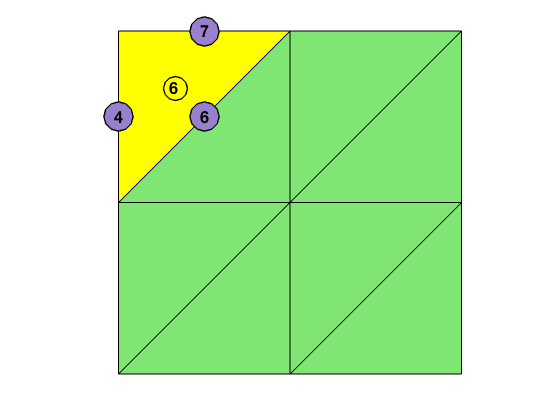
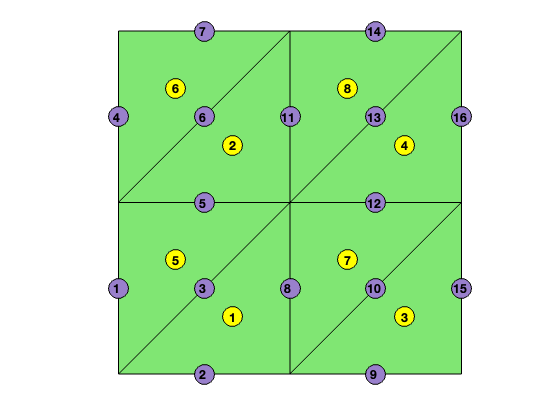
update auxstructure page

diff --git a/docs/assets/css/main.scss b/docs/assets/css/main.scss
@@ -52,8 +52,8 @@ $base01: #e0e0e0 !default;
 $base02: #bdbdbd !default;
 $base03: #9b9b9b !default;
 $base04: #009e12 !default;
-$base05: #272727 !default;
-$base06: #151515 !default;
+$base05: #474545 !default;
+$base06: #353434 !default;
 $base07: #202020 !default;
 $base08: #c00066 !default;
 $base09: #8f5202 !default;
@@ -99,8 +99,8 @@ code {
   td > code {
     padding-top: 0.02rem;
     padding-bottom: 0.02rem;
-    font-size: 0.9em;
-    background-color: #efefef;
+    font-size: 0.88em;
+    background-color: #f1f1f1;
   }
 
 // makes middle column narrow

diff --git a/tool/findelem.m b/tool/findelem.m
@@ -59,7 +59,7 @@ if length(range) < size(elem,1)
     end
 end
 nDigit =ceil(log10(range+1));
-oSize = 150*nDigit;
+oSize = 400*nDigit;
 f = gcf;
 set(f, 'Units', 'pixel');
 fHeight = f.Position(4);
@@ -68,7 +68,7 @@ if (nargin <=3) || ~(strcmp(varargin{1},'noindex'))
         s = scatter(center(:,1),center(:,2),oSize,'o','LineWidth',1,'MarkerEdgeColor','k',...
             'MarkerFaceColor','y');
         if max(f.Position(3:4)) <= 1
-            fSz = 10*f.Position(4); % font size is proportional to height
+            fSz = 20*f.Position(4); % font size is proportional to height
         else
             fSz = log(f.Position(3)*f.Position(4));
         end
@@ -88,12 +88,13 @@ if (nargin <=3) || ~(strcmp(varargin{1},'noindex'))
     end
 end
 hold off
-%%
+%% relative position of numbers
+% add by Shuhao Cao
     function resizeCallback(f, ~)
         if max(f.Position(3:4)) <= 1 % relative
-            newFSz = 40*f.Position(4); % font size is proportional to height
-            newOSize = 5*oSize*(f.Position(4));
-            newTshift = 2*tShift*f.Position(4);
+            newFSz = 80*f.Position(4); % font size is proportional to height
+            newOSize = 10*oSize*(f.Position(4));
+            newTshift = 4*tShift*f.Position(4);
         else % pixel
             newFSz = log(f.Position(3)*f.Position(4));
             newOSize = oSize*(f.Position(4)/fHeight);

diff --git a/docs/docscript4figures.m b/docs/docscript4figures.m
@@ -1,0 +1,21 @@
+[node,elem] = squaremesh([0 1 0 1],0.5);
+totalEdge = sort([elem(:,[2,3]); elem(:,[3,1]); elem(:,[1,2])],2);
+[edge, i2, j] = unique(totalEdge,'rows','legacy');
+NT = size(elem,1);
+elem2edge = reshape(j,NT,3);
+
+%%
+showmesh(node,elem);
+findedge(node,edge);
+findelem(node,elem);
+display(elem2edge);
+%%
+i1(j(3*NT:-1:1)) = 3*NT:-1:1; i1=i1';
+k1 = ceil(i1/NT); t1 = i1 - NT*(k1-1);
+k2 = ceil(i2/NT); t2 = i2 - NT*(k2-1);
+edge2elem = [t1,t2,k1,k2];
+%%
+showmesh(node,elem);
+findelem(node,elem,edge2elem(6,1:2));
+findedge(node,edge,6);
+display(edge2elem);

diff --git a/tool/findnode.m b/tool/findnode.m
@@ -61,6 +61,7 @@ if nargin>2
     end    
 end
 idxFlag = 1; % default show index number
+
 if nargin>2 && isnumeric(varargin{1})
     shift = varargin{1};
 else

diff --git a/docs/_mesh/auxstructure.md b/docs/_mesh/auxstructure.md
@@ -6,7 +6,7 @@ sidebar:
 ---
 
 
-We discuss ways to extract the combinatorial structure of a triangulation by using `elem` array only. Auxiliary data structure includes: 
+We discuss ways to extract the combinatorial structure of a triangulation by using `elem`  only. Auxiliary data structure includes: 
 - 2D: `edge, elem2edge, edge2elem, neighbor, bdEdge`
 - 3D: `face, elem2face, face2elem, neighbor, bdFace`
 
@@ -16,13 +16,12 @@ T = auxstructure(elem);  % 2-D
 T = auxstructure3(elem); % 3-D
 ```
 
-The auxiliary data structure can be constructed by *sparse matrixlization* efficiently; see [Auxiliary Mesh Data Structure]({{ site.baseurl }}/assets/pdfs/auxstructuredoc.pdf) for detailed explanation. In the following, we present two examples.
+The auxiliary data structure can be constructed by *sparse matrixlization* efficiently; see [Auxiliary Mesh Data Structure]({{ site.baseurl }}/assets/pdfs/auxstructuredoc.pdf) for detailed explanation. In the following, we present a few examples.
 
 ## edge
-We first complete the 2-D simplicial complex represented by `elem` by constructing 1-dimensional simplices, i.e., edges of the triangulation. We use `edge(1:NE,1:2)` to store indices of the starting and ending points of edges. The column is sorted in a way such that for the k-th edge, `edge(k,1)<edge(k,2)`. The following code will generate an `edge` matrix. 
+We first complete the 2-D simplicial complex represented by `elem` by constructing its 1-dimensional simplices, i.e., edges of the triangulation. We use `edge(1:NE,1:2)` to store indices of the starting and ending vertices of edges. The column is sorted in a way such that for the k-th edge, `edge(k,1)<edge(k,2)`. The following code will generate an `edge` matrix. 
 
-
-{% highlight matlab linenos %}
+```matlab
 [node,elem] = squaremesh([0 1 0 1],0.5);
 totalEdge = sort([elem(:,[2,3]); elem(:,[3,1]); elem(:,[1,2])],2);
 [i,j,s] = find(sparse(totalEdge(:,2),totalEdge(:,1),1));
@@ -30,9 +29,11 @@ edge = [j,i];
 bdEdge = [j(s==1),i(s==1)];
 showmesh(node,elem);
 findedge(node,edge,s==1);
-{% endhighlight %}
+```
 
-    
+
+
+
 ![png]({{site.baseurl}}/assets/images/mesh/auxstructuredoc_4_0.png)
     
 
@@ -40,12 +41,16 @@ findedge(node,edge,s==1);
 The first line collects all edges from the set of triangles and sorts the column such that `totalEdge(k,1)<totalEdge(k,2)`. The interior edges are repeated twice in `totalEdge`. We use the summation property of `sparse` command to merge the duplicated indices. The nonzero vector `s` takes value 1 (for boundary edges) or 2 (for interior edges). We then use `find` to return the nonzero indices which forms the `edge` set. We can also find the boundary edges using the subset of indices pair corresponding to the nonzero value 1. Note that we switch the order of `(i,j)` in line 3 to sort the edge set row-wise since the output of `find(sparse)` is sorted column-wise. 
 
 To construct `edge` matrix only, the above 3 line code can be further simplified to one line:
-`edge = unique(sort([elem(:,[2,3]); elem(:,[3,1]); elem(:,[1,2])],2),'rows');`
+
+````matlab
+edge = unique(sort([elem(:,[2,3]); elem(:,[3,1]); elem(:,[1,2])],2),'rows');
+````
+
 The `unique` function provides more functionality which we shall explore more later. However, numerical tests show that the running time of `unique` is around 3 times of the combination `find(sparse())`. 
 
-## Node Star
+## node Star
 
-The `elem` matrix, by the definition, is a link from triangles to vertices, i.e., `elem` is `elem2node`. The link from vertices to triangles, namely given a vertex, to find all triangles containing this vertex, is stored in the sparse matrix:
+The `elem` matrix, by the definition, is a link from triangles to vertices, i.e., `elem` is `elem2node`. The link from vertices to triangles, namely given a vertex, to find all triangles containing this vertex, can be stored in the sparse matrix `t2v`:
 
 
 ```matlab
@@ -66,41 +71,39 @@ findnode(node,5);
          0     1     1     0     0     1     0     0     0
          0     0     0     1     1     0     0     1     0
          0     0     0     0     1     1     0     0     1
-    
 
 
 
-    
+
 ![png]({{site.baseurl}}/assets/images/mesh/auxstructuredoc_8_1.png)
     
 
 
-The `NT x N` matrix `t2v` is the incidence matrix between triangles and vertices. `t2v(t,i)=1` means the $i$-th node is a vertex of triangle `t`. If we look at `t2v` column-wise, the nonzero in the i-th column of `t2v(:,i)` will give all triangles containing the $i$-th node. Since sparse matrix is stored column-wise, the star of the $i$-th node can be efficiently found by `nodeStar = find(t2v(:,i))`.
+The `NT x N` matrix `t2v` is the incidence matrix between triangles and vertices. `t2v(t,i)=1` means the $i$-th node is a vertex of triangle `t`. If we look at `t2v` column-wise, the nonzero in the $i$-th column of `t2v(:,i)` will give all triangles containing the $i$-th node. Since a sparse matrix is stored column-wise in MATLAB, the star of the $i$-th node can be efficiently found by `nodeStar = find(t2v(:,i))`.
 
 ## elem2edge
 
-We label three edges of a triangle such that the $i$-th edge is opposite to the $i$-th vertex. We define the matrix `elem2edge` as the map of local index of edges in each triangle to its global index. The following 3 line code will construct `elem2edge` using more output from `unique` function.
+We label three edges of a triangle such that the $i$-th edge is opposite to the $i$-th vertex. We define the matrix `elem2edge` as the map of the local index of edges in each triangle to its global index. The following 3-line code will construct `elem2edge` using more output from `unique` function.
 
-
-{% highlight matlab linenos %}
+```matlab
 [node,elem] = squaremesh([0 1 0 1],0.5);
 totalEdge = sort([elem(:,[2,3]); elem(:,[3,1]); elem(:,[1,2])],2);
 [edge, i2, j] = unique(totalEdge,'rows','legacy');
 NT = size(elem,1);
 elem2edge = reshape(j,NT,3);
-{% endhighlight %}
+```
 
-Line 1 collects all edges element-wise. The size of `totalEdge` is thus 3NT x 2. By the construction, there is a natural index mapping from `totalEdge` to `elem`. In line 2, we apply `unique` function to obtain the edge matrix. The output index vectors `i2` and `j` contain the index mapping between `edge` and `totalEdge`. Here `i2` is an `NE x 1` vector to index the last (2-nd in our case) occurrence of each unique value in `totalEdge` such that `edge = totalEdge(i2,:)`, while `j` is a `3NT x 1` vector such that `totalEdge = edge(j,:)`. (Try `help unique` in MATLAB to learn more examples. `legacy` is used since the version change of MATLAB.) Then using the natural index mapping from `totalEdge` to `elem`, we reshape the `3NT x 1` vector `j` to an `NT x 3` matrix which is `elem2edge`.
+Line 1 collects all edges element-wise. The size of `totalEdge` is thus `3NT x 2`. By the construction, there is a natural index mapping from `totalEdge` to `elem`. In line 2, we apply `unique` function to obtain the edge matrix. The output index vectors `i2` and `j` contain the index mapping between `edge` and `totalEdge`. Here `i2` is an `NE x 1` vector to index the last (2-nd in our case) occurrence of each unique value in `totalEdge` such that `edge = totalEdge(i2,:)`, while `j` is a `3NT x 1` vector such that `totalEdge = edge(j,:)`. (Try `help unique` in MATLAB to learn more examples. `legacy` is used since the version change of MATLAB.) Then using the natural index mapping from `totalEdge` to `elem`, we reshape the `3NT x 1` vector `j` to an `NT x 3` matrix which is `elem2edge`.
 
 
 ```matlab
 showmesh(node,elem);
-findelem(node,elem,6);
-findedge(node,edge,elem2edge(6,:));
+findedge(node,edge);
+findelem(node,elem);
 display(elem2edge);
 ```
 
-    
+
     elem2edge =
     
          3     2     8
@@ -111,7 +114,7 @@ display(elem2edge);
          6     7     4
         10    12     8
         13    14    11
-    
+
 
 
 
@@ -121,17 +124,16 @@ display(elem2edge);
 
 ## edge2elem
 
-We then define a NE x 4 matrix `edge2elem` such that `edge2elem(k,1)` and `edge2elem(k,2)` are two triangles sharing the k-th edge for an interior edge. If the k-th edge is on the boundary, then we set `edge2elem(k,1) = edge2elem(k,2)`. Furthermore, we shall record the local indices in `edge2elem(k,3:4)` such that `elem2edge(edge2elem(k,1),edge2elem(k,3))=k`. Similarly `edge2elem(k,4)` is the local index of $k$-th edge in `edge2elem(k,2)`. 
+We then define a `NE x 4` matrix `edge2elem` such that `edge2elem(k,1)` and `edge2elem(k,2)` are two triangles sharing the $k$-th edge for an interior edge. If the $k$-th edge is on the boundary, then we set `edge2elem(k,1) = edge2elem(k,2)`. Furthermore, we shall record the local indices in `edge2elem(k,3:4)` such that `elem2edge(edge2elem(k,1),edge2elem(k,3))=k`. Namely  `edge2elem(k,3)` is the local index of the $k$-th edge in `edge2elem(k,1)` and `edge2elem(k,4)` is the local index of the $k$-th edge in `edge2elem(k,2)`. 
 
 To construct `edge2elem` matrix, we need to find out the index map from `edge` to `elem`. The following code is a continuation of the code constructing `elem2edge`.
 
-
-{% highlight matlab linenos %}
+```matlab
 i1(j(3*NT:-1:1)) = 3*NT:-1:1; i1=i1';
 k1 = ceil(i1/NT); t1 = i1 - NT*(k1-1);
 k2 = ceil(i2/NT); t2 = i2 - NT*(k2-1);
 edge2elem = [t1,t2,k1,k2];
-{% endhighlight %}
+```
 
 The code in line 1 uses `j` to find the first occurrence of each unique edge in the `totalEdge`. In MATLAB, when assign values using an index vector with duplication, the value at the repeated index will be the last one assigned to this location. Obvious `j` contains duplication of edge indices. For example, `j(1)=j(2)=4` which means `totalEdge(1,:)=totalEdge(2,:)=edge(4,:)`. We reverse the order of `j` such that `i1(4)=1` which is the first occurrence.
 
@@ -145,7 +147,7 @@ findedge(node,edge,6);
 display(edge2elem);
 ```
 
-    
+
     edge2elem =
     
          5     5     3     3
@@ -164,11 +166,9 @@ display(edge2elem);
          8     8     2     2
          3     3     3     3
          4     4     3     3
-    
 
 
-
-    
+    
 
 ![png]({{site.baseurl}}/assets/images/mesh/auxstructuredoc_17_1.png)
 
